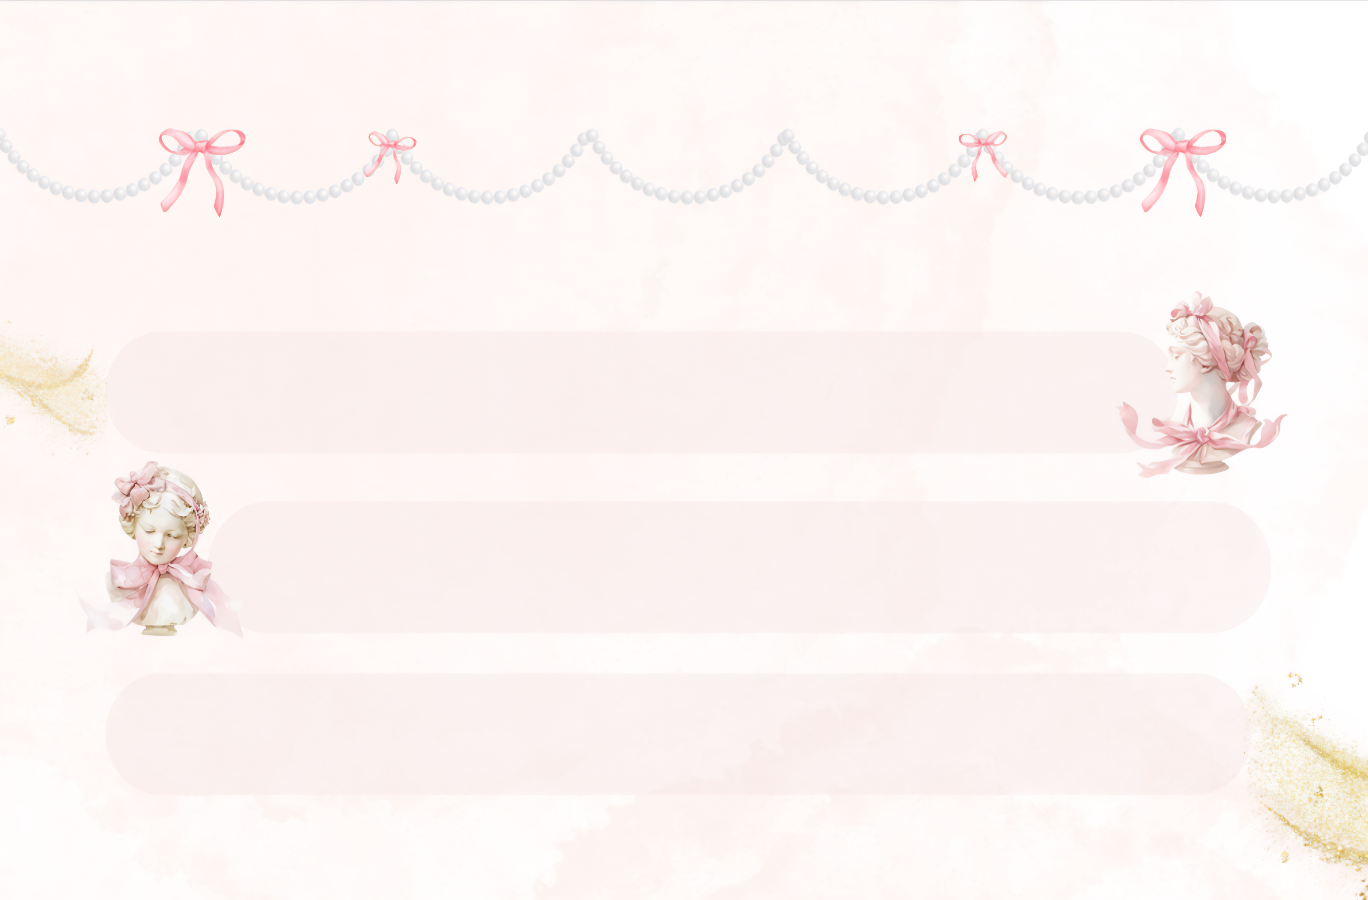
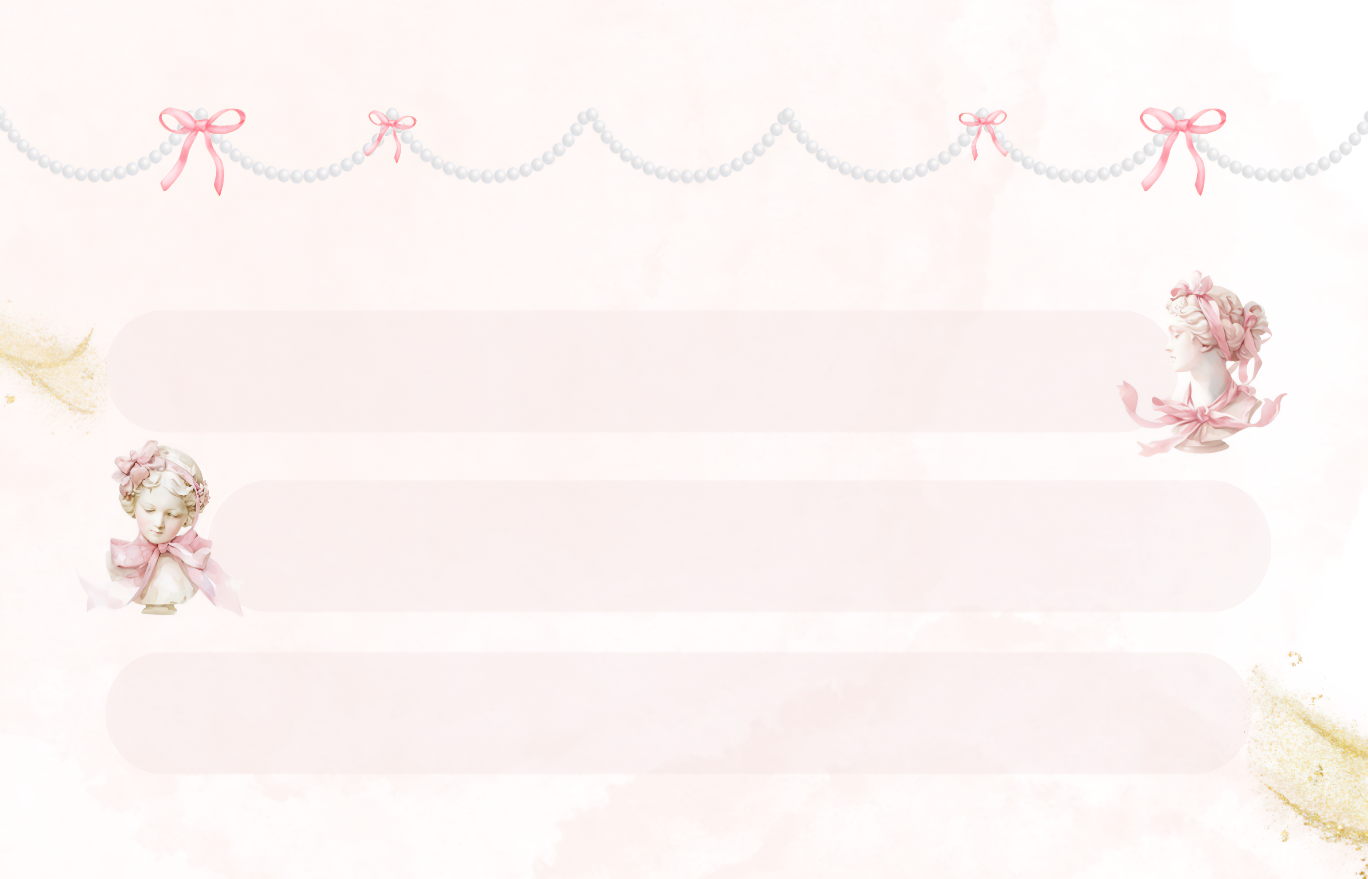
Se realizaron cambios en el responsive

diff --git a/assets/pages/peluqueria.html b/assets/pages/peluqueria.html
@@ -67,7 +67,7 @@
                 <li><a href="#">Productos </a></li>
             </ul>
             <!--Agenda tu cita===-->
-            <a href=""><img src="../image/contactame.jpg" class="contactame" alt=""></a>
+            <a href="#piePagina"><img src="../image/contactame.jpg" class="contactame" alt=""></a>
         </nav>
         <!--mi cuenta===-->
         <div class="cuenta">
@@ -109,7 +109,7 @@
     </section>
 
 
-
+ <!--==================== Carrusel peinados ====================-->
 
 
     <section class="contenedorCarrusel" id="contenedorCarrusel">
@@ -142,6 +142,36 @@
         <div id="contenedorBotones">
             <img src="../image/flechasIconoIzquierda.png" class="botonIzquierda" alt="">
             <img src="../image/flechasIconoDerecha.png" class="botonDerecha" alt="">
+        </div>
+    </section>
+
+    <!--==================== Tratamientos Capilares ====================-->
+
+     <!--==================== PIE DE PAGINA ====================-->
+
+     <section id="piePagina" class="piePagina">
+        <div class="contacto">
+            <h4>Contacto</h4>
+            <a href="https://wa.me/573218305094" target="_blank">WhatsApp</a>
+            <a href="https://wa.me/573218305094" target="_blank">Correo Electronico</a>
+        </div>
+        <div class="Ubicacion">
+            <h4>Ubicacion</h4>
+            <a href="https://www.google.com/maps/search/Cra+5+Este+%232C-42,+Bogotá,+Colombia"
+                target="_blank">Dirección</a>
+            <a href="https://www.google.com/maps/search/Cra+5+Este+%232C-42,+Bogotá,+Colombia" target="_blank">Agenda tu
+                domicilio</a>
+        </div>
+        <div class="Suscribete">
+            <h3>ÚNETE</h3>
+            <p>Suscribete para recibir información sobre <br>nuevos productos, servicios y ofertas</p>
+            <div class="form">
+                <input type="email" placeholder="Ingresa tu correo" required>
+                <button type="submit">Suscribirse</button>
+            </div>
+        </div>
+        <div class="derechos">
+            <p>Derechos reservados 2024, Laura Nataly Tellez Beltran</p>
         </div>
     </section>
 

diff --git a/assets/js/mostrarCarruselesPeinados.js b/assets/js/mostrarCarruselesPeinados.js
@@ -20,6 +20,10 @@ const contenedorBotones = document.getElementById('contenedorBotones');
 iconoP1 = document.querySelector(".iconoP1"); 
 iconoP2 = document.querySelector(".iconoP2"); 
 iconoP3 = document.querySelector(".iconoP3"); 
+const iconos = [iconoP1, iconoP2, iconoP3];
+
+
+
 
 // Función para mostrar peinados boda
 iconoBoda.addEventListener('click', function() {
@@ -31,6 +35,11 @@ iconoBoda.addEventListener('click', function() {
     carrusel3Peinados2.style.display = 'none';
 
     //animacion icono
+    iconos.forEach(function(elemento) {
+        elemento.style.border = 'none'; 
+        elemento.style.boxShadow = 'none'; 
+    });
+
     iconoP1.classList.add('rotar');
     iconoP1.style.border = '2px solid pink';
     iconoP1.style.borderRadius = '50%';
@@ -51,11 +60,17 @@ IconoElegante.addEventListener('click', function() {
     carrusel3Peinados1.style.display = 'none';
     carrusel3Peinados2.style.display = 'none';
      //animacion icono
+     iconos.forEach(function(elemento) {
+        elemento.style.border = 'none'; // Elimina el borde
+        elemento.style.boxShadow = 'none'; // Elimina la sombra, si deseas
+    });
+
      iconoP2.classList.add('rotar');
      iconoP2.style.border = '2px solid pink';
      iconoP2.style.borderRadius = '50%';
      iconoP2.style.boxShadow = '0 0 15px rgba(255, 0, 0, 0.5)';
- 
+  
+
     setTimeout(function(){
         iconoP2.classList.remove('rotar');
      }, 280);
@@ -70,6 +85,12 @@ IconoNiña.addEventListener('click', function() {
     carrusel1Peinados1.style.display = 'none';
     carrusel1Peinados2.style.display = 'none';
      //animacion icono
+     
+     iconos.forEach(function(elemento) {
+        elemento.style.border = 'none'; // Elimina el borde
+        elemento.style.boxShadow = 'none'; // Elimina la sombra, si deseas
+    });
+
      iconoP3.classList.add('rotar');
      iconoP3.style.border = '2px solid pink';
      iconoP3.style.borderRadius = '50%';

diff --git a/assets/css/peluqueria.css b/assets/css/peluqueria.css
@@ -1,4 +1,6 @@
 @import url("nav.css");
+@import url("piePagina.css");
+
 
 
 * {
@@ -29,10 +31,7 @@ a {
     display: flex;
     flex-direction: column;
     justify-content: center;
-    /* Centra el contenido verticalmente */
     align-items: center;
-    /* Centra el contenido horizontalmente */
-
     padding-left: 3rem;
     padding-right: 5rem;
 
@@ -100,7 +99,7 @@ a {
 }
 
 /* slider peinados */
-.contenedorCarrusel{
+.contenedorCarrusel {
     background-image: url(../image/fondo.jpeg);
     background-position: center;
     background-repeat: no-repeat;
@@ -118,21 +117,23 @@ a {
 
 .iconoP1 {
     width: 7.5rem;
-   margin-top: 0.8rem;
+    margin-top: 0.8rem;
     cursor: pointer;
-    transition: transform 0.5s ease; 
+    transition: transform 0.5s ease;
 }
 
 .iconoP2 {
     width: 7.5rem;
     margin-top: 0.5rem;
     cursor: pointer;
+    transition: transform 0.5s ease;
 }
 
 .iconoP3 {
     width: 7.5rem;
     margin-top: 0.5rem;
     cursor: pointer;
+    transition: transform 0.5s ease;
 }
 
 .txIcono {
@@ -145,7 +146,8 @@ a {
 }
 
 .rotar {
-    transform: rotate(360deg); /* Aplica la rotación completa */
+    transform: rotate(360deg);
+    /* Aplica la rotación completa */
 }
 
 
@@ -192,7 +194,7 @@ a {
 }
 
 .botonIzquierda {
-   right: 85%;
+    right: 85%;
 }
 
 .botonDerecha {
@@ -208,4 +210,7 @@ a {
 }
 
 
-
+/*pie pagina*/
+.piePagina{
+    margin-top: 0rem;
+}

diff --git a/assets/pages/index.html b/assets/pages/index.html
@@ -40,7 +40,6 @@
                 <img src="../image/anguloAbajo.png" class="anguloAbajo" alt="">
                 <!--sublista===-->
                 <li><a href="../pages/peluqueria.html">Peluqueria</a></li>
-                <li><a href="">Faciales</a></li>
                 <li><a href="">Depilación</a></li>
             </ul>
 
@@ -70,7 +69,7 @@
                 <li><a href="#">Productos </a></li>
             </ul>
             <!--Agenda tu cita===-->
-            <a href=""><img src="../image/contactame.jpg" class="contactame" alt=""></a>
+            <a href="#piePagina"><img src="../image/contactame.jpg" class="contactame" alt=""></a>
         </nav>
         <!--mi cuenta===-->
         <div class="cuenta">
@@ -145,7 +144,6 @@
         <div class="derechos">
             <p>Derechos reservados 2024, Laura Nataly Tellez Beltran</p>
         </div>
-
     </section>
 
 

diff --git a/assets/css/nav.css b/assets/css/nav.css
@@ -17,7 +17,7 @@ element.style {
     width: 100%;
     display: flex;
     align-items: center;
-    height: 8rem;
+    height: 7rem;
     position: fixed;
     top: 0rem;
     z-index: 1000;
@@ -111,7 +111,7 @@ li {
     display: none;
     list-style-type: none;
     position: absolute;
-    top: 55%;
+    top: 50%;
     background-color: white;
     padding: 0.3rem;
 }

diff --git a/assets/js/carruselPeluqueria.js b/assets/js/carruselPeluqueria.js
@@ -41,4 +41,3 @@ function moverIzquierda() {
     }
 }
 
-
